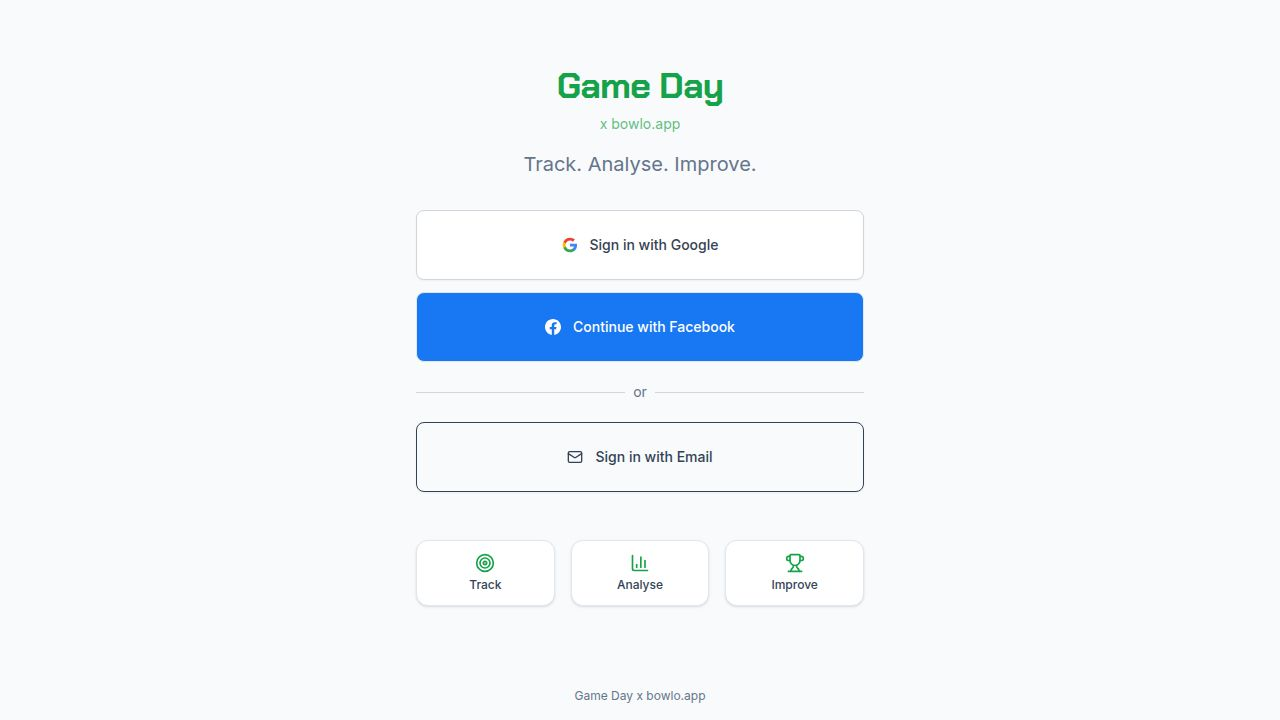
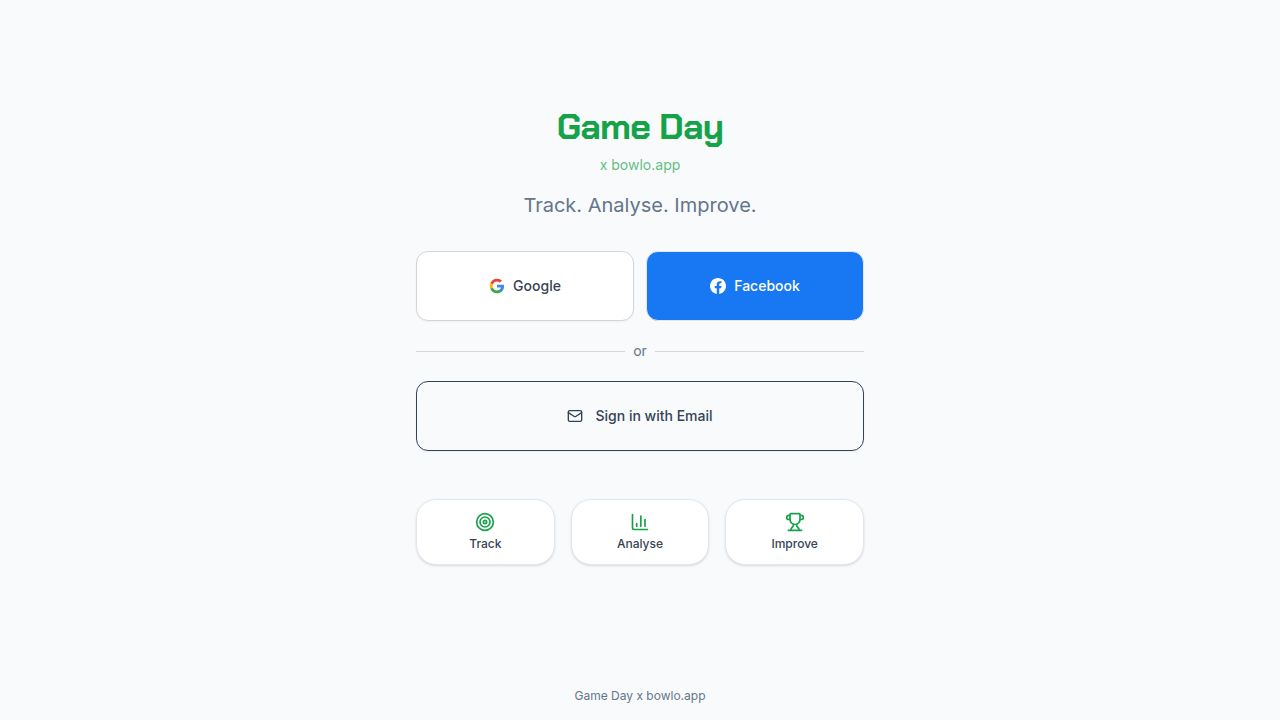
Update dashboard and heatmap visuals for a lighter, cleaner look
Adjusted heatmap canvas with a lighter background, softer grid lines, and modified color gradients. Updated jack marker and effective zone border colors for better visibility. Refined dashboard header and stat card styling, removing unnecessary gradients and adjusting element sizes for a cleaner aesthetic.

Replit-Commit-Author: Agent
Replit-Commit-Session-Id: ba2724e6-8ecd-4f24-9d26-aa281aede340
Replit-Commit-Checkpoint-Type: intermediate_checkpoint
Replit-Commit-Event-Id: e7fce67d-5ffe-471c-b4b2-8dcc2f8e991a
Replit-Commit-Screenshot-Url: https://storage.googleapis.com/screenshot-production-us-central1/6723928c-374d-4b0d-a8f7-f4464587c831/ba2724e6-8ecd-4f24-9d26-aa281aede340/fwDlZtP
Replit-Helium-Checkpoint-Created: true

diff --git a/client/src/pages/home.tsx b/client/src/pages/home.tsx
@@ -3,8 +3,7 @@ import { useAuth } from "@/hooks/useAuth";
 import { Link } from "wouter";
 import { Button } from "@/components/ui/button";
 import { Card, CardContent } from "@/components/ui/card";
-import { Plus, ArrowRight, MapPin, BarChart3, List, Target, TrendingUp, Zap, Trophy } from "lucide-react";
-import { cn } from "@/lib/utils";
+import { Plus, ArrowRight, MapPin, BarChart3, List, Target } from "lucide-react";
 
 export default function Home() {
   const { user } = useAuth();
@@ -43,98 +42,78 @@ export default function Home() {
   }
 
   return (
-    <div className="space-y-6 animate-in fade-in duration-500 -mx-4 -mt-4">
-      {/* Bold Gradient Header */}
-      <div className="bg-gradient-to-br from-primary via-primary to-emerald-600 text-white px-6 py-8 rounded-b-3xl shadow-lg">
-        <div className="flex items-center gap-4 mb-6">
-          {user?.profileImageUrl ? (
-            <img 
-              src={user.profileImageUrl} 
-              alt={firstName}
-              className="w-14 h-14 rounded-full border-2 border-white/30 shadow-md"
-            />
-          ) : (
-            <div className="w-14 h-14 rounded-full bg-white/20 flex items-center justify-center text-xl font-bold">
-              {firstName[0]?.toUpperCase()}
-            </div>
-          )}
-          <div>
-            <p className="text-white/70 text-sm">Welcome back,</p>
-            <h1 className="text-2xl font-bold" data-testid="heading-dashboard">{firstName}</h1>
+    <div className="space-y-6 animate-in fade-in duration-500">
+      {/* Simple Header */}
+      <div className="flex items-center gap-3 pt-2">
+        {user?.profileImageUrl ? (
+          <img 
+            src={user.profileImageUrl} 
+            alt={firstName}
+            className="w-12 h-12 rounded-full border-2 border-primary/20"
+          />
+        ) : (
+          <div className="w-12 h-12 rounded-full bg-primary/10 flex items-center justify-center text-lg font-bold text-primary">
+            {firstName[0]?.toUpperCase()}
           </div>
-        </div>
-
-        {/* Hero Stat Card */}
-        <div className="bg-white/15 backdrop-blur-sm rounded-2xl p-4 border border-white/20">
-          <div className="flex items-center justify-between">
-            <div>
-              <p className="text-white/70 text-sm mb-1">Effectiveness Rate</p>
-              <p className="text-4xl font-bold">{effectiveRate}%</p>
-              <p className="text-white/60 text-xs mt-1">{effectiveBowls.length} of {allBowls.length} bowls</p>
-            </div>
-            <div className="w-16 h-16 rounded-full bg-white/20 flex items-center justify-center">
-              <Target className="w-8 h-8" />
-            </div>
-          </div>
+        )}
+        <div>
+          <p className="text-muted-foreground text-sm">Welcome back,</p>
+          <h1 className="text-xl font-semibold" data-testid="heading-dashboard">{firstName}</h1>
         </div>
       </div>
 
-      {/* Stats Grid */}
-      <div className="px-4 grid grid-cols-2 gap-3">
-        <StatCard 
-          icon={<Zap className="w-5 h-5" />}
-          label="Total Bowls"
-          value={allBowls.length.toLocaleString()}
-          color="bg-gradient-to-br from-violet-500 to-purple-600"
-        />
-        <StatCard 
-          icon={<Trophy className="w-5 h-5" />}
-          label="Win Rate"
-          value={`${winRate}%`}
-          color="bg-gradient-to-br from-amber-500 to-orange-500"
-        />
-        <StatCard 
-          icon={<BarChart3 className="w-5 h-5" />}
-          label="Games Played"
-          value={completedGames.length.toString()}
-          color="bg-gradient-to-br from-cyan-500 to-blue-500"
-        />
-        <StatCard 
-          icon={<TrendingUp className="w-5 h-5" />}
-          label="Total Wins"
-          value={totalWins.toString()}
-          color="bg-gradient-to-br from-emerald-500 to-green-600"
-        />
+      {/* Main Stat Card */}
+      <Card className="border shadow-soft">
+        <CardContent className="p-4">
+          <div className="flex items-center justify-between">
+            <div>
+              <p className="text-muted-foreground text-sm mb-1">Effectiveness Rate</p>
+              <p className="text-4xl font-bold text-primary">{effectiveRate}%</p>
+              <p className="text-muted-foreground text-xs mt-1">{effectiveBowls.length} of {allBowls.length} bowls</p>
+            </div>
+            <div className="w-14 h-14 rounded-full bg-primary/10 flex items-center justify-center">
+              <Target className="w-7 h-7 text-primary" />
+            </div>
+          </div>
+        </CardContent>
+      </Card>
+
+      {/* Stats Grid - Simple design */}
+      <div className="grid grid-cols-4 gap-2">
+        <SimpleStatCard label="Bowls" value={allBowls.length.toLocaleString()} />
+        <SimpleStatCard label="Win %" value={`${winRate}%`} />
+        <SimpleStatCard label="Games" value={completedGames.length.toString()} />
+        <SimpleStatCard label="Wins" value={totalWins.toString()} />
       </div>
 
       {/* Active Games Section */}
       {activeGames.length > 0 && (
-        <section className="px-4 space-y-3">
-          <h2 className="text-lg font-semibold flex items-center gap-2">
-            <span className="w-2 h-2 rounded-full bg-primary animate-pulse" />
-            Continue Playing
+        <section className="space-y-3">
+          <h2 className="text-sm font-medium text-muted-foreground uppercase tracking-wide flex items-center gap-2">
+            <span className="w-2 h-2 rounded-full bg-primary" />
+            In Progress
           </h2>
           {activeGames.map((game) => (
             <Card 
               key={game.id} 
-              className="overflow-hidden border-0 shadow-md bg-gradient-to-r from-primary/5 to-primary/10" 
+              className="border shadow-soft" 
               data-testid={`card-active-game-${game.id}`}
             >
               <CardContent className="p-4">
                 <div className="flex items-center justify-between mb-3">
                   <div>
-                    <p className="font-semibold text-lg">vs {game.opponent}</p>
+                    <p className="font-semibold">vs {game.opponent}</p>
                     <p className="text-sm text-muted-foreground flex items-center gap-1">
                       <MapPin className="w-3 h-3" /> {game.venue}
                     </p>
                   </div>
-                  <span className="text-xs font-medium px-3 py-1 bg-primary/10 text-primary rounded-full">
+                  <span className="text-xs font-medium px-2 py-1 bg-muted text-muted-foreground rounded">
                     {game.position}
                   </span>
                 </div>
                 <Link href={`/play/${game.id}`}>
-                  <Button className="w-full gap-2 rounded-xl h-11" data-testid={`button-continue-${game.id}`}>
-                    Continue Game <ArrowRight className="w-4 h-4" />
+                  <Button className="w-full gap-2" data-testid={`button-continue-${game.id}`}>
+                    Continue <ArrowRight className="w-4 h-4" />
                   </Button>
                 </Link>
               </CardContent>
@@ -144,32 +123,38 @@ export default function Home() {
       )}
 
       {/* Quick Actions */}
-      <section className="px-4 space-y-3">
-        <h2 className="text-lg font-semibold">Quick Actions</h2>
+      <section className="space-y-3">
+        <h2 className="text-sm font-medium text-muted-foreground uppercase tracking-wide">Quick Actions</h2>
         <div className="grid grid-cols-3 gap-3">
           <Link href="/new-game">
-            <ActionTile 
-              icon={<Plus className="w-6 h-6" />}
-              label="New Game"
-              color="bg-gradient-to-br from-primary to-emerald-600"
-              testId="tile-new-game"
-            />
+            <Card className="border shadow-soft hover:shadow-md transition-shadow cursor-pointer" data-testid="tile-new-game">
+              <CardContent className="p-4 flex flex-col items-center gap-2">
+                <div className="w-10 h-10 rounded-full bg-primary flex items-center justify-center">
+                  <Plus className="w-5 h-5 text-white" />
+                </div>
+                <span className="text-sm font-medium">New Game</span>
+              </CardContent>
+            </Card>
           </Link>
           <Link href="/games">
-            <ActionTile 
-              icon={<List className="w-6 h-6" />}
-              label="My Games"
-              color="bg-gradient-to-br from-slate-600 to-slate-800"
-              testId="tile-my-games"
-            />
+            <Card className="border shadow-soft hover:shadow-md transition-shadow cursor-pointer" data-testid="tile-my-games">
+              <CardContent className="p-4 flex flex-col items-center gap-2">
+                <div className="w-10 h-10 rounded-full bg-muted flex items-center justify-center">
+                  <List className="w-5 h-5 text-muted-foreground" />
+                </div>
+                <span className="text-sm font-medium">My Games</span>
+              </CardContent>
+            </Card>
           </Link>
           <Link href="/analysis">
-            <ActionTile 
-              icon={<BarChart3 className="w-6 h-6" />}
-              label="Analysis"
-              color="bg-gradient-to-br from-violet-500 to-purple-600"
-              testId="tile-analysis"
-            />
+            <Card className="border shadow-soft hover:shadow-md transition-shadow cursor-pointer" data-testid="tile-analysis">
+              <CardContent className="p-4 flex flex-col items-center gap-2">
+                <div className="w-10 h-10 rounded-full bg-muted flex items-center justify-center">
+                  <BarChart3 className="w-5 h-5 text-muted-foreground" />
+                </div>
+                <span className="text-sm font-medium">Analysis</span>
+              </CardContent>
+            </Card>
           </Link>
         </div>
       </section>
@@ -179,57 +164,11 @@ export default function Home() {
   );
 }
 
-function StatCard({ 
-  icon, 
-  label, 
-  value, 
-  color 
-}: { 
-  icon: React.ReactNode; 
-  label: string; 
-  value: string; 
-  color: string;
-}) {
+function SimpleStatCard({ label, value }: { label: string; value: string }) {
   return (
-    <div className={cn(
-      "rounded-2xl p-4 text-white shadow-lg",
-      color
-    )}>
-      <div className="flex items-center justify-between mb-2">
-        <div className="w-9 h-9 rounded-full bg-white/20 flex items-center justify-center">
-          {icon}
-        </div>
-      </div>
-      <p className="text-2xl font-bold">{value}</p>
-      <p className="text-white/70 text-sm">{label}</p>
+    <div className="text-center p-3 bg-muted/30 rounded-lg">
+      <p className="text-lg font-bold">{value}</p>
+      <p className="text-xs text-muted-foreground">{label}</p>
     </div>
-  );
-}
-
-function ActionTile({ 
-  icon, 
-  label, 
-  color,
-  testId
-}: { 
-  icon: React.ReactNode; 
-  label: string; 
-  color: string;
-  testId: string;
-}) {
-  return (
-    <Card 
-      className="border-0 shadow-md overflow-hidden cursor-pointer hover:scale-105 transition-transform duration-200"
-      data-testid={testId}
-    >
-      <CardContent className="p-0">
-        <div className={cn("aspect-square flex flex-col items-center justify-center text-white", color)}>
-          <div className="w-12 h-12 rounded-full bg-white/20 flex items-center justify-center mb-2">
-            {icon}
-          </div>
-          <span className="font-medium text-sm text-center px-1">{label}</span>
-        </div>
-      </CardContent>
-    </Card>
   );
 }

diff --git a/client/src/pages/analysis.tsx b/client/src/pages/analysis.tsx
@@ -94,12 +94,26 @@ function HeatmapCanvas({ heatmap, maxCount }: { heatmap: number[][], maxCount: n
     canvas.height = size * dpr;
     ctx.scale(dpr, dpr);
     
-    // Clear with dark background
-    ctx.fillStyle = 'rgb(15, 23, 42)';
+    // Clear with light background (soft cream/green tint)
+    ctx.fillStyle = 'rgb(248, 250, 245)';
     ctx.fillRect(0, 0, size, size);
     
+    // Draw subtle grid lines
+    ctx.strokeStyle = 'rgba(0, 0, 0, 0.05)';
+    ctx.lineWidth = 1;
+    for (let i = 1; i < 9; i++) {
+      ctx.beginPath();
+      ctx.moveTo(i * cellSize, 0);
+      ctx.lineTo(i * cellSize, size);
+      ctx.stroke();
+      ctx.beginPath();
+      ctx.moveTo(0, i * cellSize);
+      ctx.lineTo(size, i * cellSize);
+      ctx.stroke();
+    }
+    
     // Apply blur filter for smooth blending
-    ctx.filter = 'blur(12px)';
+    ctx.filter = 'blur(14px)';
     
     // Draw radial gradients for each cell with data
     for (let row = 0; row < 9; row++) {
@@ -110,15 +124,15 @@ function HeatmapCanvas({ heatmap, maxCount }: { heatmap: number[][], maxCount: n
         const intensity = Math.min(count / Math.max(maxCount, 1), 1);
         const x = col * cellSize + cellSize / 2;
         const y = row * cellSize + cellSize / 2;
-        const radius = cellSize * (0.8 + intensity * 0.6);
+        const radius = cellSize * (1.0 + intensity * 0.8);
         
         // Create radial gradient
         const gradient = ctx.createRadialGradient(x, y, 0, x, y, radius);
         
-        // Thermal color based on intensity
+        // Thermal color based on intensity - softer on light background
         const color = getThermalColor(intensity);
-        gradient.addColorStop(0, `rgba(${color.r}, ${color.g}, ${color.b}, ${0.7 + intensity * 0.3})`);
-        gradient.addColorStop(0.5, `rgba(${color.r}, ${color.g}, ${color.b}, ${0.3 + intensity * 0.2})`);
+        gradient.addColorStop(0, `rgba(${color.r}, ${color.g}, ${color.b}, ${0.6 + intensity * 0.3})`);
+        gradient.addColorStop(0.4, `rgba(${color.r}, ${color.g}, ${color.b}, ${0.25 + intensity * 0.15})`);
         gradient.addColorStop(1, `rgba(${color.r}, ${color.g}, ${color.b}, 0)`);
         
         ctx.fillStyle = gradient;
@@ -131,17 +145,19 @@ function HeatmapCanvas({ heatmap, maxCount }: { heatmap: number[][], maxCount: n
     // Reset filter for overlays
     ctx.filter = 'none';
     
-    // Draw jack marker (center)
-    ctx.strokeStyle = 'rgba(255, 255, 255, 0.6)';
+    // Draw jack marker (center) - darker for light background
+    ctx.strokeStyle = 'rgba(0, 0, 0, 0.4)';
     ctx.lineWidth = 2;
     ctx.beginPath();
     ctx.arc(size / 2, size / 2, 8, 0, Math.PI * 2);
     ctx.stroke();
     
     // Draw effective zone border
-    ctx.strokeStyle = 'rgba(255, 255, 255, 0.3)';
+    ctx.strokeStyle = 'rgba(0, 0, 0, 0.15)';
     ctx.lineWidth = 1;
+    ctx.setLineDash([4, 4]);
     ctx.strokeRect(cellSize * 3, cellSize * 3, cellSize * 3, cellSize * 3);
+    ctx.setLineDash([]);
     
   }, [heatmap, maxCount]);
   
@@ -149,7 +165,7 @@ function HeatmapCanvas({ heatmap, maxCount }: { heatmap: number[][], maxCount: n
     <canvas 
       ref={canvasRef}
       style={{ width: size, height: size }}
-      className="rounded-lg mx-auto"
+      className="rounded-lg mx-auto border border-border/50"
     />
   );
 }
@@ -203,7 +219,7 @@ function HeatmapGrid({ heatmap, maxCount, title }: { heatmap: number[][], maxCou
         
         <div className="flex justify-center gap-4 mt-3 text-xs text-muted-foreground">
           <span>N=Narrow</span>
-          <span className="text-white/60">&#9711; Jack</span>
+          <span>&#9711; Jack</span>
           <span>W=Wide</span>
         </div>
       </CardContent>
@@ -501,16 +517,16 @@ export default function Analysis() {
   };
 
   return (
-    <div className="space-y-6 animate-in fade-in duration-500 -mx-4 -mt-4">
+    <div className="space-y-6 animate-in fade-in duration-500">
       {/* Header */}
-      <div className="bg-gradient-to-br from-primary to-emerald-700 text-white px-6 py-6 rounded-b-3xl shadow-lg">
-        <h1 className="text-2xl font-bold mb-1">Performance Analysis</h1>
-        <p className="text-white/70 text-sm">
+      <div className="pt-2">
+        <h1 className="text-xl font-semibold">Performance Analysis</h1>
+        <p className="text-muted-foreground text-sm">
           {totalGames} game{totalGames !== 1 ? 's' : ''} analyzed · {allStats?.total || 0} total bowls
         </p>
       </div>
       
-      <div className="px-4 space-y-6">
+      <div className="space-y-6">
 
       {/* Single Game Banner */}
       {selectedGame && (
